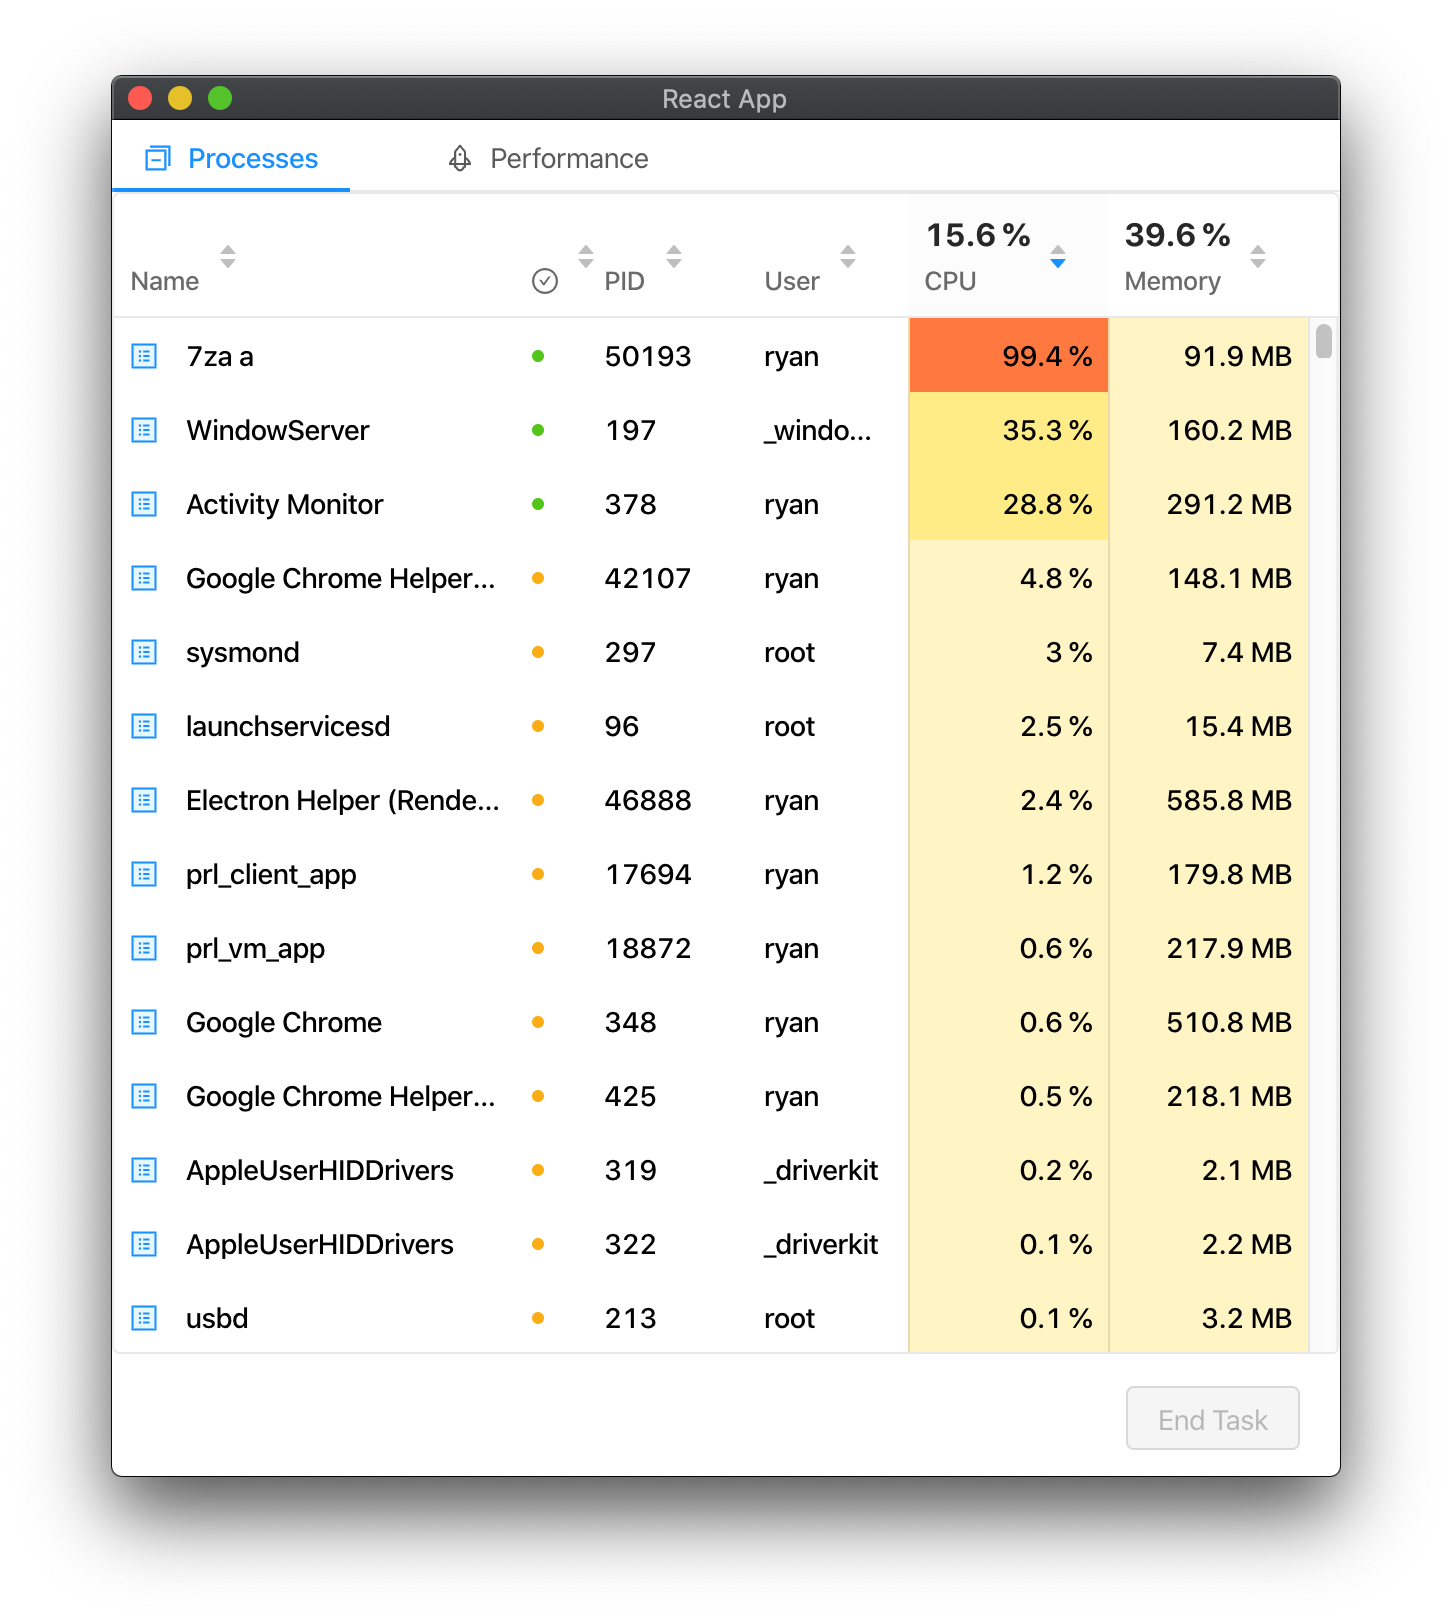
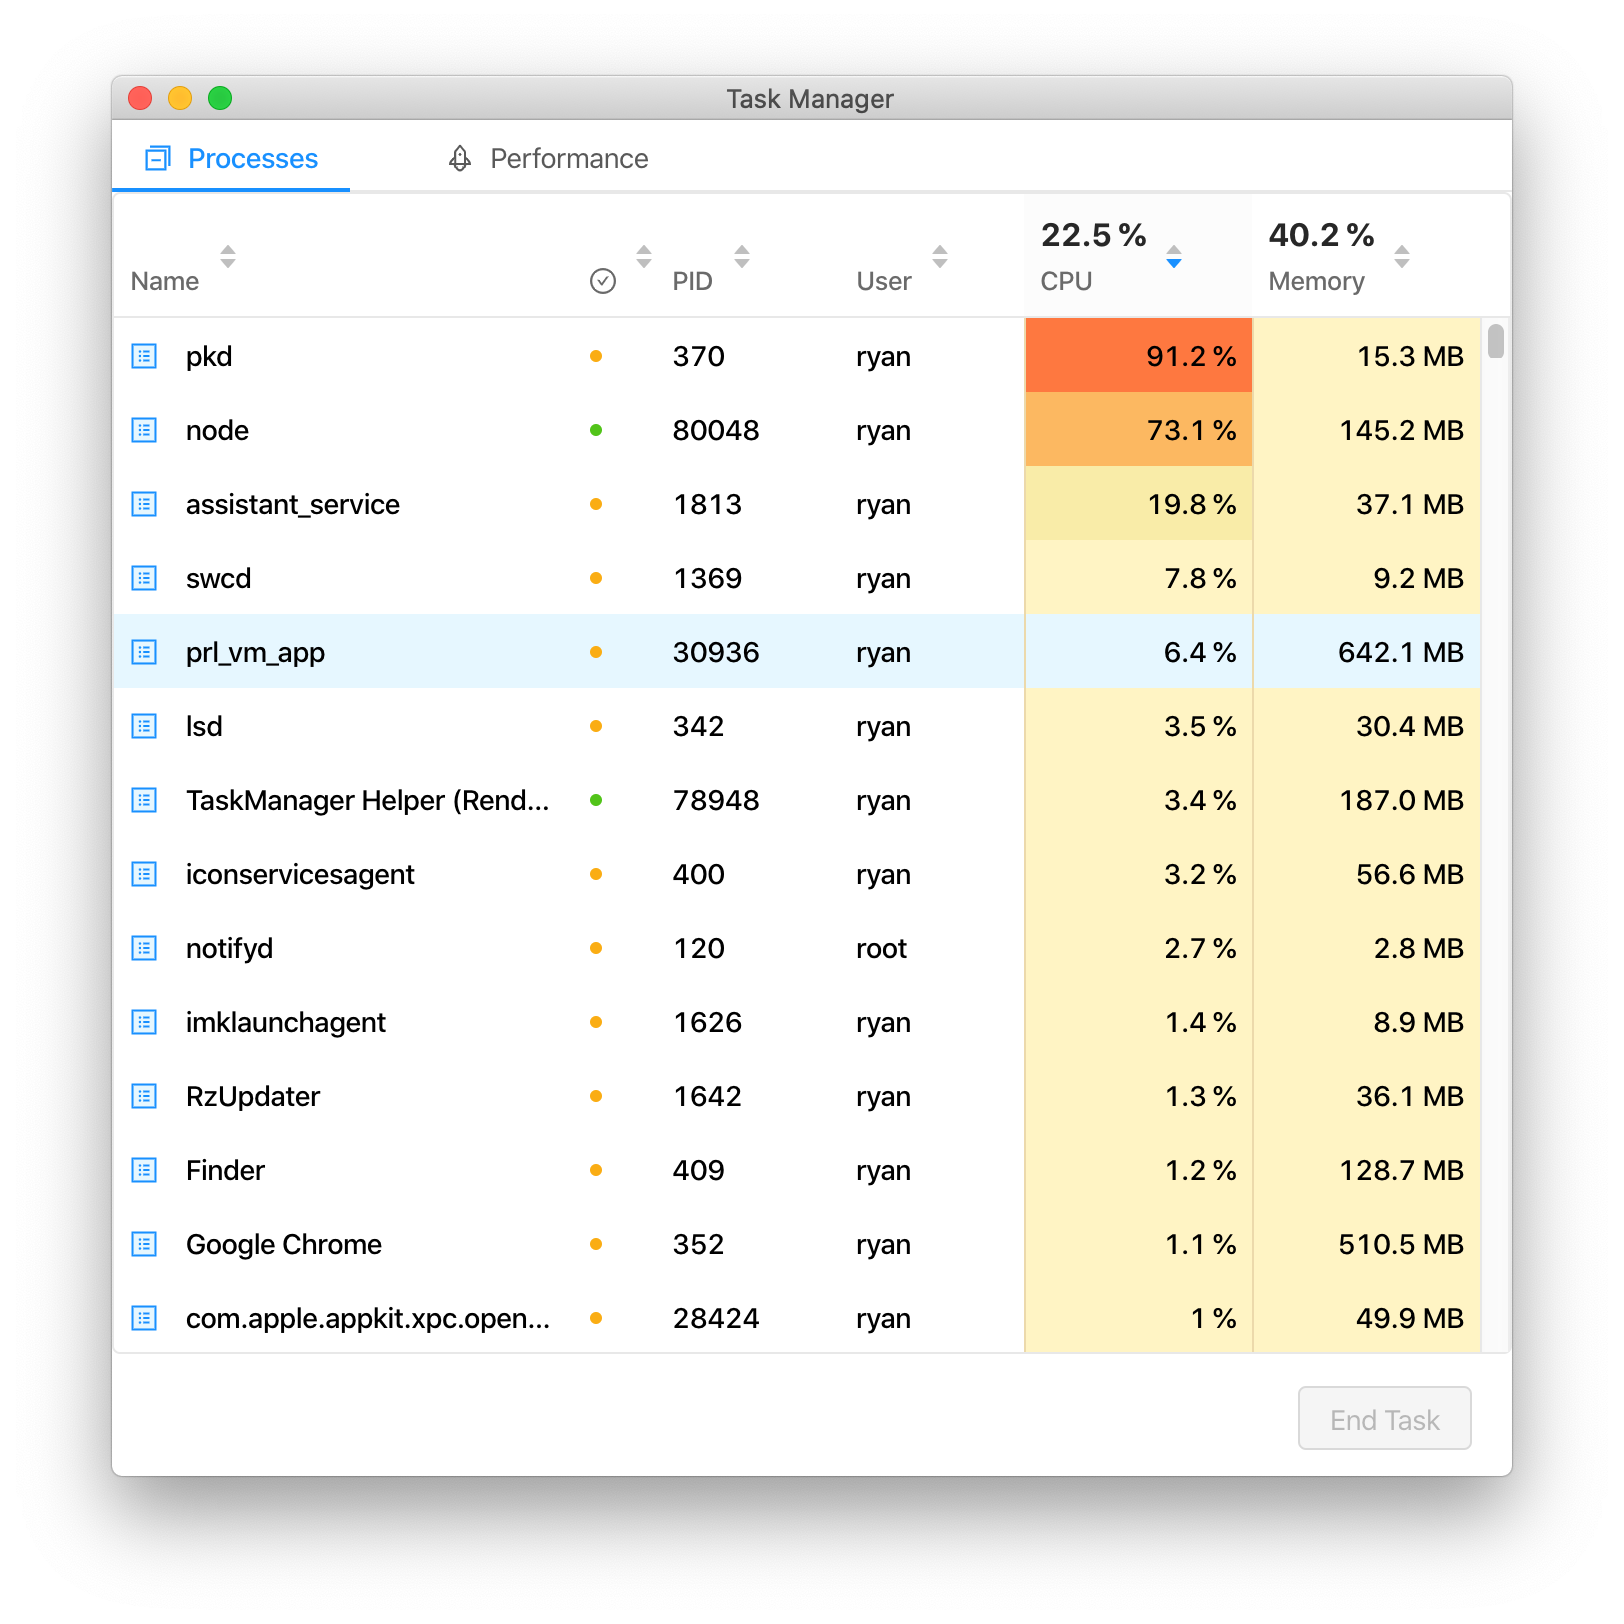
Update screenshots.

diff --git a/README.md b/README.md
@@ -5,9 +5,11 @@
 A Windows-Like Task Manager built for Linux and macOS, based on [Electron](https://electronjs.org/), [Ant Design](https://ant.design/), [systeminformation](https://www.npmjs.com/package/systeminformation) and [ECharts](https://www.echartsjs.com/en/index.html).
 
 <p float="left" align="center">
-  <img src="https://github.com/yxwangcs/taskmanager/raw/master/screenshots/1.png" width="45%" />
+  <img src="https://github.com/yxwangcs/taskmanager/raw/master/screenshots/1.png" width="30%" />
   &emsp;
-  <img src="https://github.com/yxwangcs/taskmanager/raw/master/screenshots/2.png" width="45%" /> 
+  <img src="https://github.com/yxwangcs/taskmanager/raw/master/screenshots/2.png" width="30%" /> 
+  
+  <img src="https://github.com/yxwangcs/taskmanager/raw/master/screenshots/3.png" width="30%" /> 
 </p>
 
 Previously there is a C++ version based on QT, at [v1.0-qt-based](https://github.com/yxwangcs/taskmanager/tree/v1.0-qt-based) branch.
